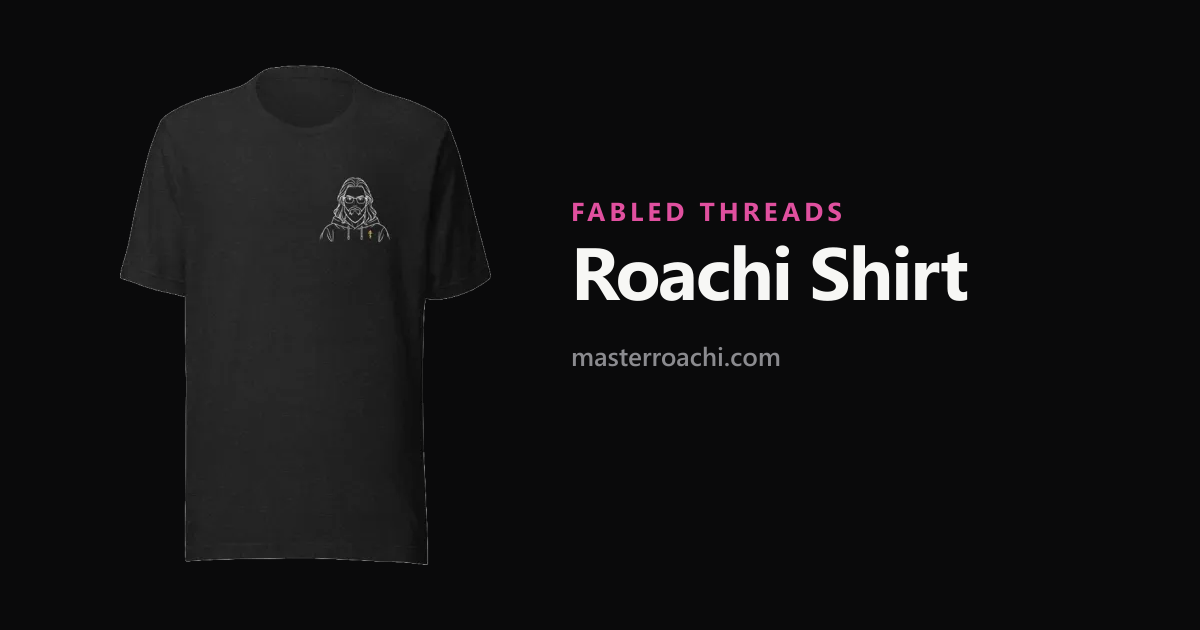
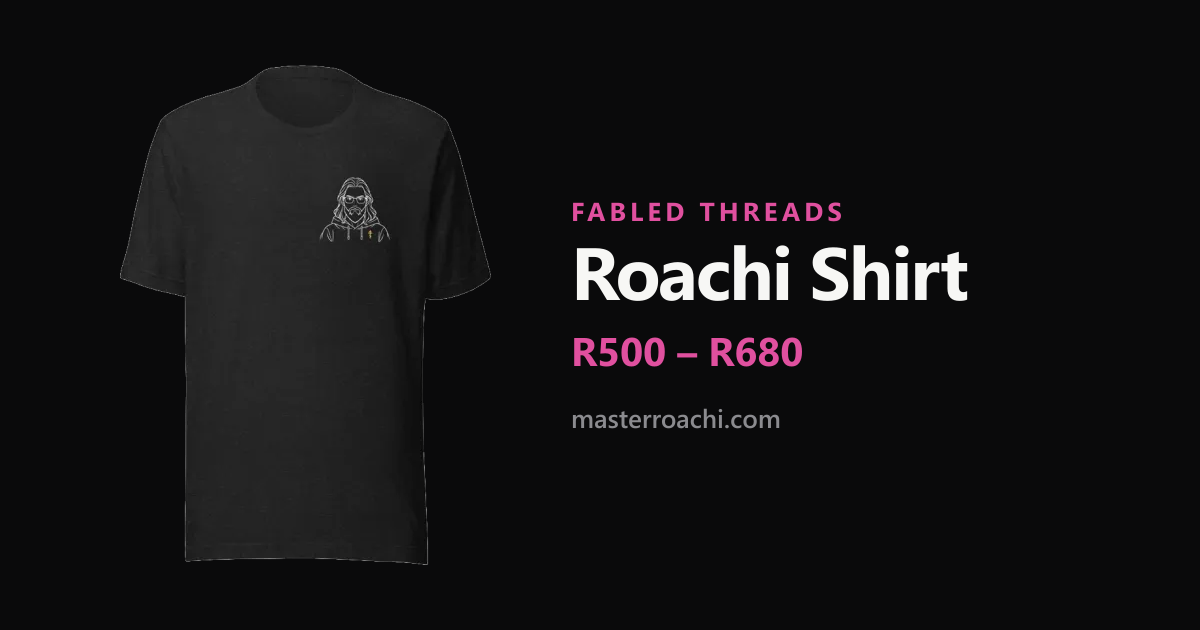
Set the rate, and write prices the way a shop writes them
R17.50 to the dollar against a spot of about R16.00 — roughly nine per cent,
which covers exchange drift between an order and Printful's invoice, the
PayFast fee, and card FX. The shirt lands on R500 to R680 across XS to 5XL.

Intl with en-ZA gives "R 500,00": correct by the standard and not how any
South African shop writes a price. Cents are shown only when there are any,
and the space after the symbol goes while the one between thousands stays —
R1 250, not R1250. The split is made at the first digit rather than by
matching the separator, which is a non-breaking space in some locales and a
narrow one in others, and neither survives being typed into a shell.

Changed region(s): [[0.4625, 0.5127, 0.6783, 0.6032], [0.4625, 0.6333, 0.6475, 0.6937]]

diff --git a/lib/store.ts b/lib/store.ts
@@ -162,12 +162,24 @@ const CURRENCY_LOCALE: Record<string, string> = {
 
 export function money(amount: number, currency: string): string {
   const locale = CURRENCY_LOCALE[currency] ?? 'en-US';
+  // Prices here round to whole rands, and "R 500,00" reads as an accounting
+  // entry rather than a price tag. Cents are shown only when there are any.
+  const whole = Number.isInteger(amount);
   try {
-    return new Intl.NumberFormat(locale, {
+    const formatted = new Intl.NumberFormat(locale, {
       style: 'currency',
       currency,
-      maximumFractionDigits: 2,
+      maximumFractionDigits: whole ? 0 : 2,
     }).format(amount);
+    // en-ZA puts a space between the symbol and the number — correct by the
+    // standard, and not how any South African shop writes a price. Only that
+    // one space goes: the thousands separator is also a space, and R1 250 is
+    // right where R1250 is not. Split at the first digit rather than matching
+    // the separator, which is a non-breaking space in some locales and a
+    // narrow one in others.
+    const firstDigit = formatted.search(/[0-9]/);
+    if (firstDigit <= 0) return formatted;
+    return formatted.slice(0, firstDigit).trimEnd() + formatted.slice(firstDigit);
   } catch {
     return `${currency} ${amount.toFixed(2)}`;
   }
